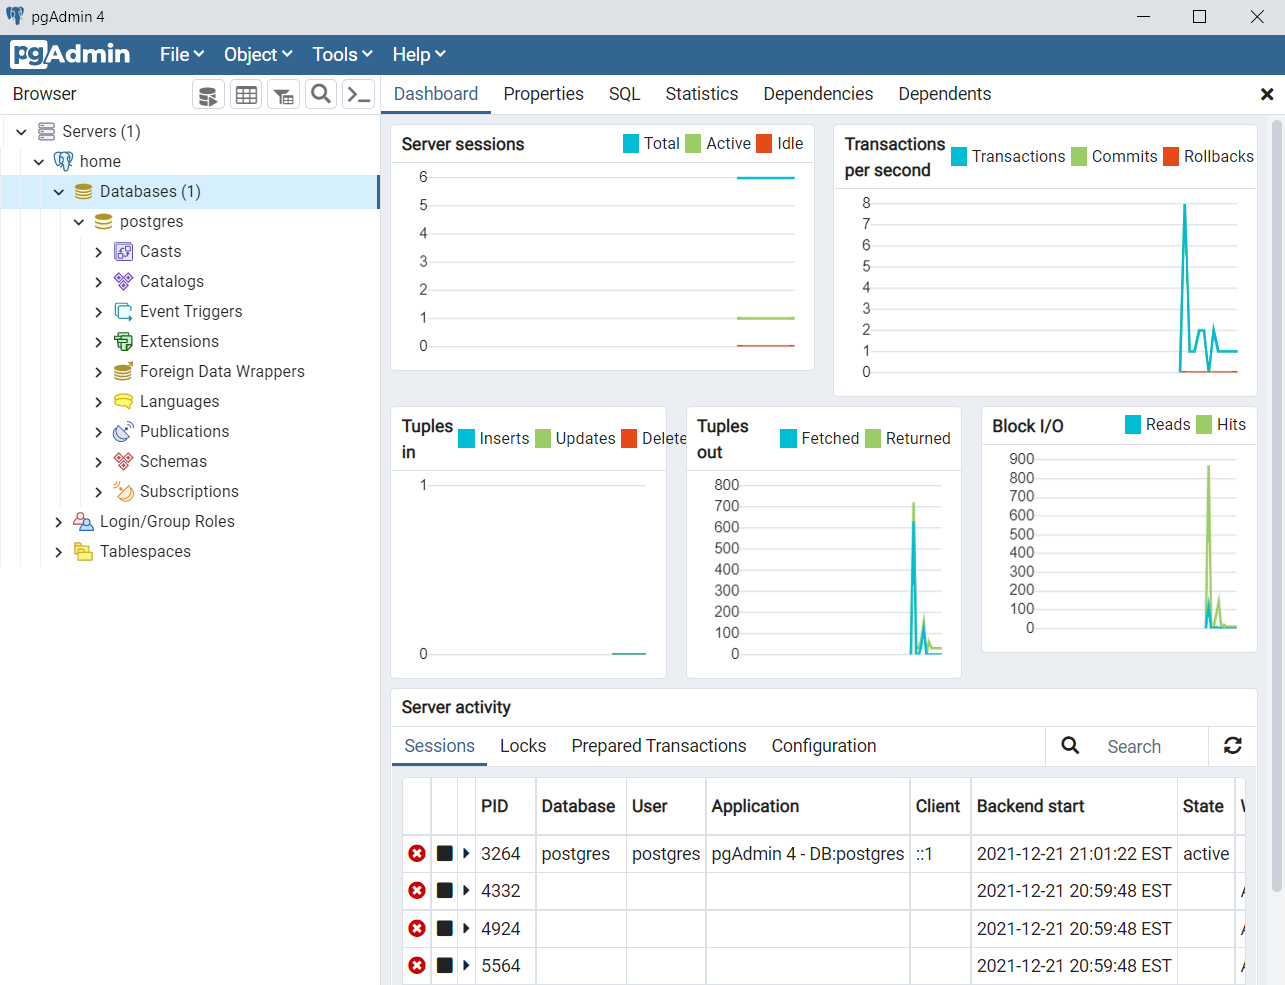
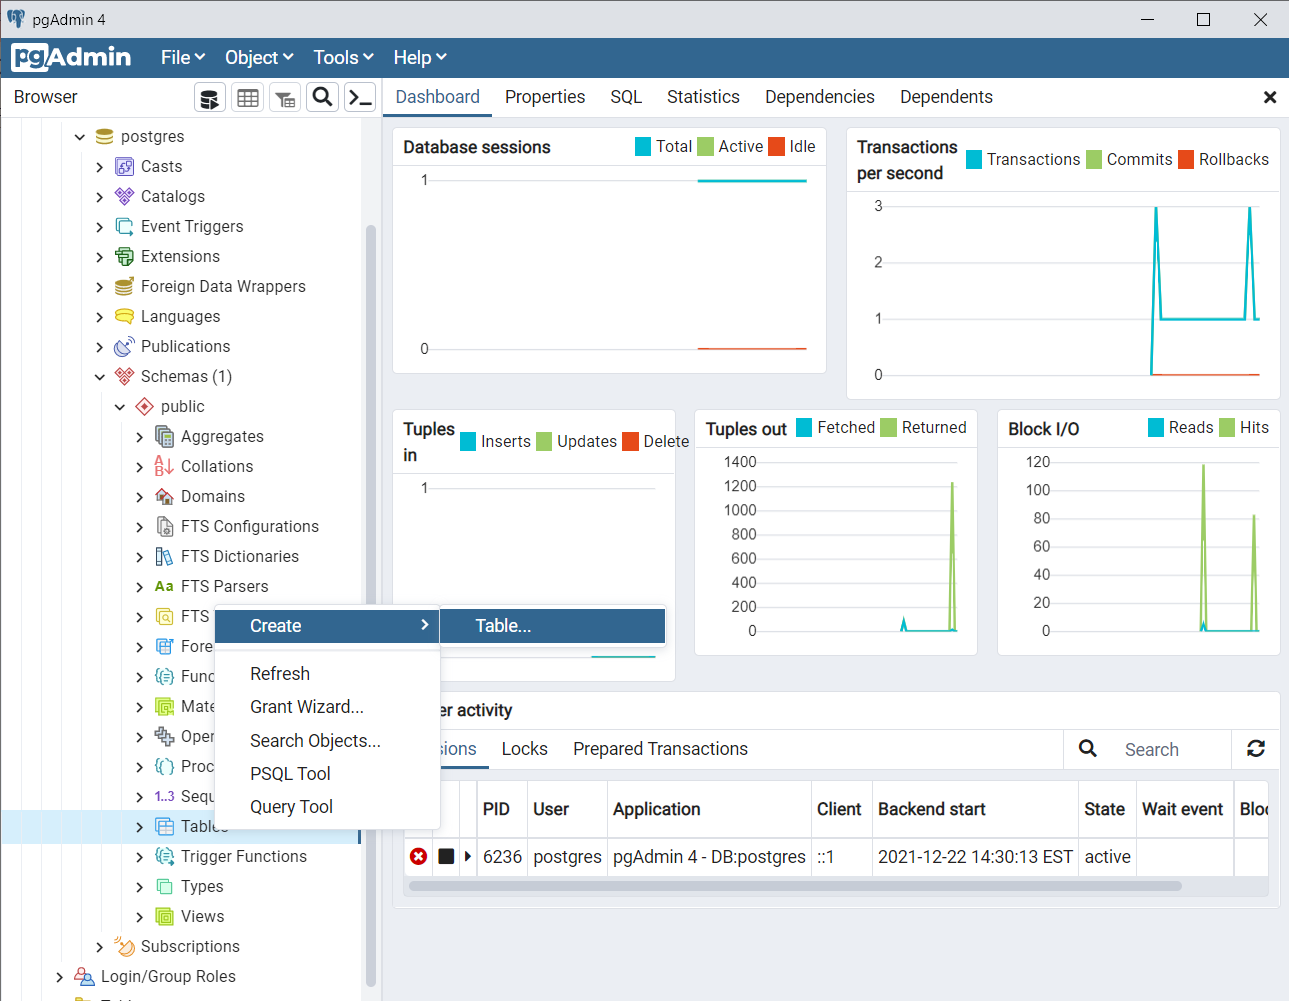
Create tables

diff --git a/_posts/data_engineering/2021-12-01-Intermediate-SQL.md b/_posts/data_engineering/2021-12-01-Intermediate-SQL.md
@@ -4,38 +4,101 @@ title: Intermediate SQL
 author: matt_sosna
 ---
 
-When I was learning SQL, I found it hard to progress beyond the absolute basics. One big blocker was being able to practice on my own. If I didn't have access to a database to begin with, how could I develop familiarity with SQL? It was a chicken and egg problem, the "cold start" to SQL.
+When I started learning SQL, I found it hard to progress beyond the absolute basics. I loved [DataCamp's courses](https://www.datacamp.com/courses/introduction-to-sql) because I could just type the code directly into a console on the screen. But once the courses ended, how could I practice what I learned? And how could I continue improving, when all the tutorials I found just consisted of code snippits, without an underlying database I could query myself?
 
-In this post, we'll create a database for you to play with. Then we'll explore a few intermediate SQL topics, the sort of techniques you might use once you're familiar with the basics. If you can understand the below query, then you're prepared for the rest of this post.
+I found myself in a "chicken or egg" problem $-$ I needed access to a database so I could practice SQL and continue learning, but I needed to be good at SQL to get hired and be granted access to databases to practice on.
+
+In this post, we'll create a database for you to play with. Then we'll explore a few intermediate SQL topics, the sort of techniques you'll likely utilize as a data scientist. If you understand the below query, then you're prepared for the rest of this post.
 
 {% include header-sql.html %}
 ```sql
 SELECT
     s.id AS student_id,
-    g.grade
+    e.score
 FROM
     students AS s
 LEFT JOIN
-    grades AS g
-    ON s.id = g.student_id
+    exams AS e
+    ON s.id = e.student_id
 WHERE
-    g.grade > 90;
+    e.grade > 90;
 ```
 
 ## Setting up
-When learning a new language, practice is critical. It's one thing to read this post and nod along, and another to be able to explore ideas on your own. So let's first get a database system set up on your computer. While it sounds intimidating, it'll actually be straightforward.
+When learning a new language, practice is critical. It's one thing to read this post and nod along, and another to be able to explore ideas on your own. So let's first set up a database on your computer. While it sounds intimidating, it'll actually be straightforward.
 
-We start by installing [PostgreSQL](https://www.postgresql.org/), a common dialect of SQL. We go to the download page, select our operating system, and then run the installation.
+The first step is to install SQL on your computer. We'll use [PostgreSQL (Postgres)](https://www.postgresql.org/), a common dialect. We go to the [download page](https://www.postgresql.org/download/), select our operating system (e.g. Windows), and then run the installation. If you set a password on your database, keep it handy for the next step!  (Since our database won't be public, it's fine to use a simple password like `admin`.)
 
 <center>
 <img src="{{  site.baseurl  }}/images/data_engineering/intermediate_sql/download.png" width="70%" height="70%">
 </center>
 
-We'll then install [pgadmin4](https://www.pgadmin.org/) to interact with our PostgreSQL database(s). We do this by going to the [installation page](https://www.pgadmin.org/download/), clicking the link for our operating system (e.g. Windows), and then following the steps.
+The next step is to install [PGAdmin](https://www.pgadmin.org/), a graphical user interface (GUI) that makes it easy to interact with our PostgreSQL database(s). We do this by going to the [installation page](https://www.pgadmin.org/download/), clicking the link for our operating system, and then following the steps.
 
-We then click on "Set up server" (which is really setting up a connection to an existing server, which is why we need to install Postgres first).
+Once it's installed, we open PGAdmin and click on "Add new server." This step actually sets up a connection to an _existing_ server, which is why we needed to install Postgres first. I named my server `home` and passed in the password I defined during the Postgres installation.
+
+We're now ready to create some tables! To do so, click on `home` > Databases (1) > postgres > Schemas (1) > Public > Tables > Create > Table.
 
 <img src="{{  site.baseurl  }}/images/data_engineering/intermediate_sql/pgadmin1.png">
+
+Let's start with a table called `student` with the columns `id`, `name`, and `classroom_id`. `id` will be the primary key and therefore non-nullable. In other words, for a student to be added to this table, he or she needs an `id` for the write to complete. We'll create a sequence that auto-increments for us.
+
+We can do this with the GUI, but it's more reproducible and I think easier and quite a bit faster if we write it with code. Right click on tables and select "Query Editor." Then type this:
+
+{% include header-sql.html %}
+```sql
+-- Create incrementing sequence
+CREATE SEQUENCE student_seq;
+
+-- Define 'student' table
+CREATE TABLE student (
+    id INT DEFAULT nextval('student_seq'::regclass),
+	name VARCHAR,
+	classroom_id INT
+);
+
+-- Insert rows
+INSERT INTO student
+ 	(id, name, classroom_id)
+ VALUES
+ 	(1, 'Adam', 1),
+ 	(2, 'Betty', 1),
+ 	(3, 'Caroline', 2);
+
+-- Pull rows
+SELECT * FROM student;
+```
+
+Let's now create a `classroom` table and relate the two.
+
+{% include header-sql.html %}
+```sql
+-- Create another sequence
+CREATE SEQUENCE classroom_seq;
+
+-- Create classroom table
+CREATE TABLE classroom (
+	id INT DEFAULT nextval('classroom_seq'::regclass),
+	teacher VARCHAR
+);
+
+-- Insert rows
+INSERT INTO classroom
+	(teacher)
+VALUES
+	('Mary'),
+	('Jonah');
+
+-- Join the tables
+SELECT
+    *
+FROM
+    student AS s
+INNER JOIN
+    classroom AS c
+    ON s.classroom_id = c.id;
+```
+
 
 So here's something we can do. We can stay in Python and create a SQLite DB, then run queries against it. Or we can install an RDBMS like PSequel or whatever and execute queries there.
 
